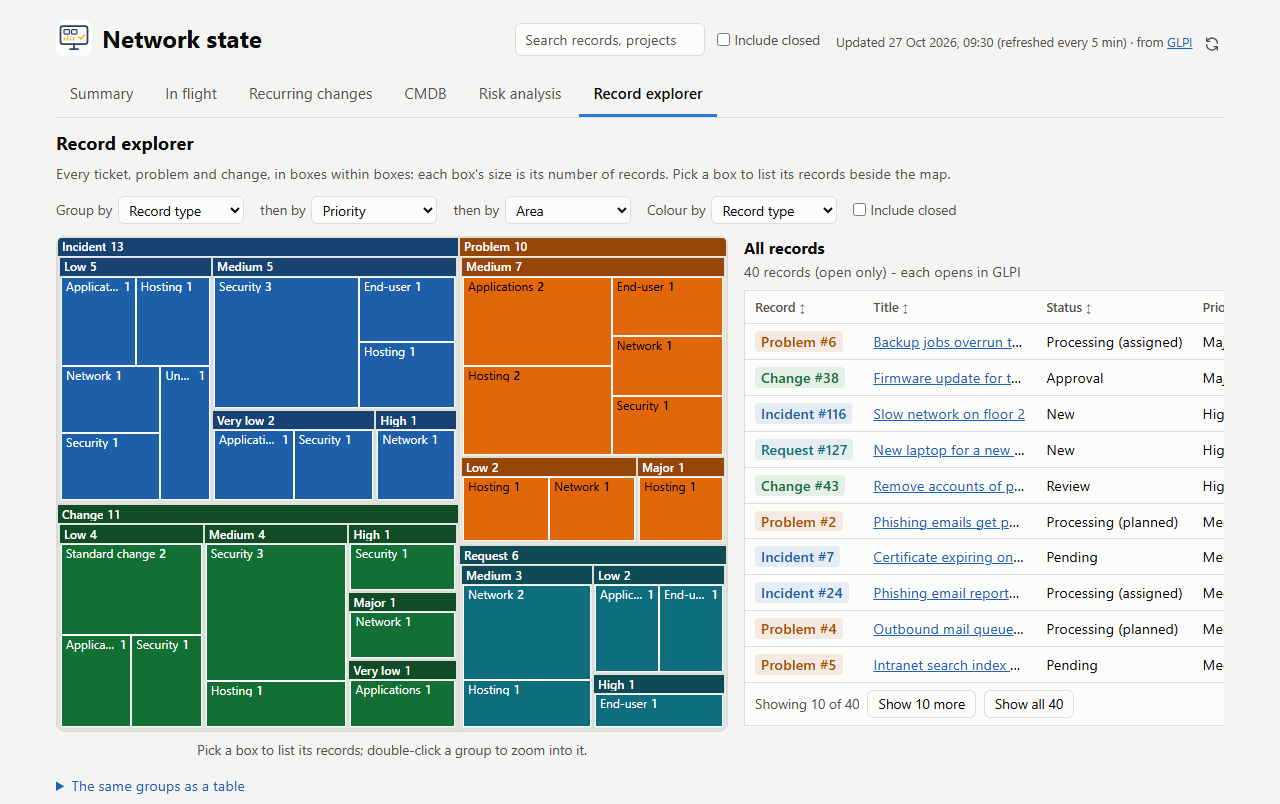
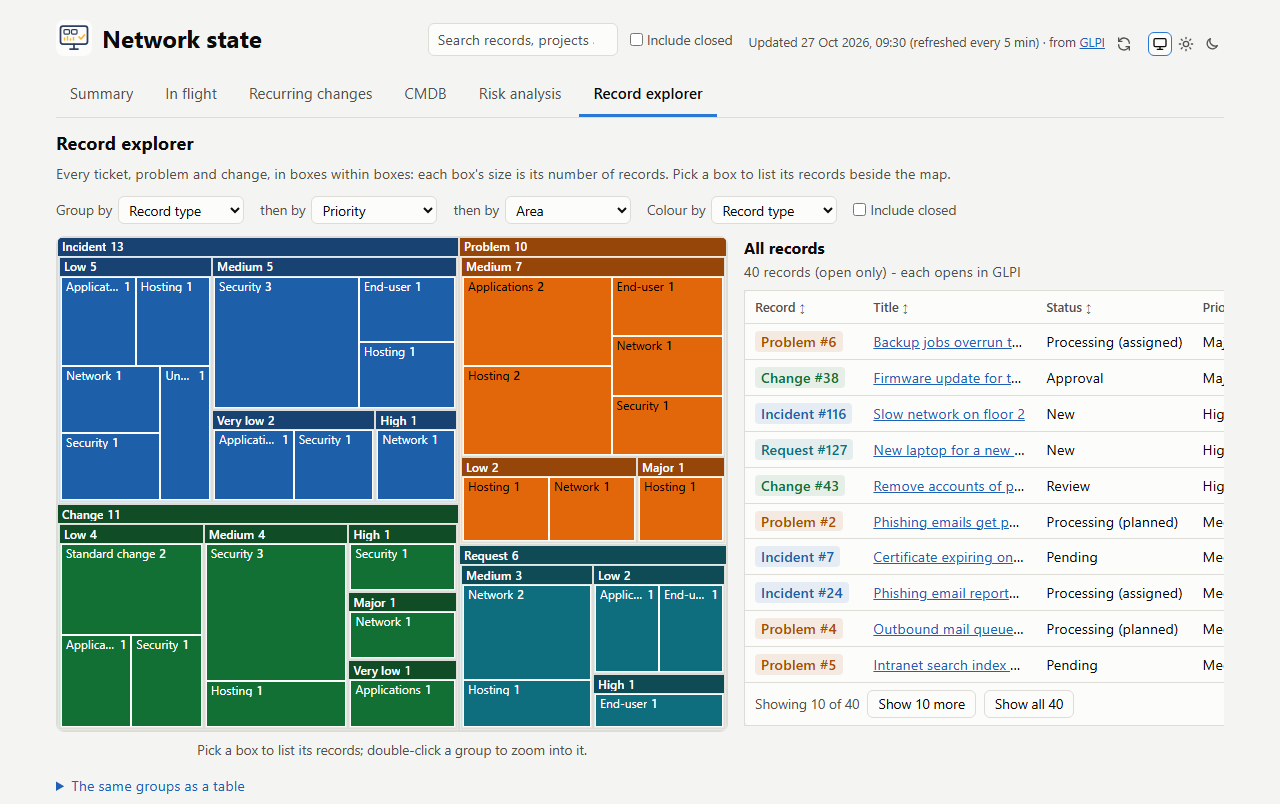
feat(ui): theme toggle - System, Light or Dark (#21)
Three icon buttons in the header pick the theme; the browser remembers the
choice, falling back to System when storage is blocked or the value is
unknown. theme.js applies the saved theme from <head> before the first
paint, so there's no flash, and the Record explorer redraws on a switch so
its box text keeps AA contrast. Adds a dark Summary screenshot and retakes
the six tab shots, whose header now shows the toggle.

Changed region(s): [[0.3438, 0.0311, 0.9375, 0.0622]]

diff --git a/app/static/index.html b/app/static/index.html
@@ -5,6 +5,7 @@
   <meta name="viewport" content="width=device-width, initial-scale=1">
   <title>{{TITLE}}</title>
   <link rel="icon" href="logo.svg" type="image/svg+xml">
+  <script src="theme.js"></script>
   <link rel="stylesheet" href="style.css">
   <script src="app.js" defer></script>
 </head>
@@ -23,7 +24,28 @@
           <path d="M20 11a8 8 0 0 0-14.3-4.9L4 8"/><path d="M4 3v5h5"/>
           <path d="M4 13a8 8 0 0 0 14.3 4.9L20 16"/><path d="M20 21v-5h-5"/>
         </svg>
-      </button></p>
+      </button>
+      <span class="theme" role="group" aria-label="Theme">
+        <button class="icon-btn" type="button" data-theme-choice="system" aria-pressed="true"
+                aria-label="System theme" title="System theme">
+          <svg class="icon" viewBox="0 0 24 24" aria-hidden="true" focusable="false">
+            <rect x="3" y="4" width="18" height="12" rx="2"/><path d="M8 20h8"/><path d="M12 16v4"/>
+          </svg>
+        </button>
+        <button class="icon-btn" type="button" data-theme-choice="light" aria-pressed="false"
+                aria-label="Light theme" title="Light theme">
+          <svg class="icon" viewBox="0 0 24 24" aria-hidden="true" focusable="false">
+            <circle cx="12" cy="12" r="4"/>
+            <path d="M12 2v2M12 20v2M2 12h2M20 12h2M4.9 4.9l1.4 1.4M17.7 17.7l1.4 1.4M4.9 19.1l1.4-1.4M17.7 6.3l1.4-1.4"/>
+          </svg>
+        </button>
+        <button class="icon-btn" type="button" data-theme-choice="dark" aria-pressed="false"
+                aria-label="Dark theme" title="Dark theme">
+          <svg class="icon" viewBox="0 0 24 24" aria-hidden="true" focusable="false">
+            <path d="M20 14.5A8 8 0 0 1 9.5 4a8 8 0 1 0 10.5 10.5z"/>
+          </svg>
+        </button>
+      </span></p>
   </header>
   <div id="error" class="banner" role="alert" hidden></div>
 

diff --git a/app/static/app.js b/app/static/app.js
@@ -819,6 +819,35 @@ function renderExplorer() {
   matchMedia('(prefers-color-scheme: dark)').addEventListener('change', () => { explorerDrawn = null; renderExplorer(); });
 }
 
+// --- theme: System (the default), Light or Dark; theme.js applies the saved one before the page is first drawn ---
+
+const themeButtons = [...document.querySelectorAll('[data-theme-choice]')];
+
+/**
+ * Applies a theme and marks its button as the one picked.
+ * @param {string} theme 'system', 'light' or 'dark'
+ */
+function setTheme(theme) {
+  if (theme === 'system') delete document.documentElement.dataset.theme;
+  else document.documentElement.dataset.theme = theme;
+  for (const b of themeButtons) b.setAttribute('aria-pressed', String(b.dataset.themeChoice === theme));
+}
+
+setTheme(document.documentElement.dataset.theme || 'system');
+for (const b of themeButtons) {
+  b.addEventListener('click', () => {
+    const theme = b.dataset.themeChoice;
+    setTheme(theme);
+    try {
+      if (theme === 'system') localStorage.removeItem('theme');
+      else localStorage.setItem('theme', theme);
+    } catch { /* storage blocked: the choice just isn't kept */ }
+    // The explorer's box text is picked for the colours it was drawn on.
+    explorerDrawn = null;
+    renderExplorer();
+  });
+}
+
 // --- page -------------------------------------------------------------------------------------------------------
 
 /** Draws every section from `snap`, then reopens the list in the URL hash, if any. */

diff --git a/app/static/style.css b/app/static/style.css
@@ -148,11 +148,15 @@ h3 { font-size: 0.95rem; margin: 20px 0 6px; color: var(--text-secondary); }
 .icon-btn:hover:not(:disabled) { color: var(--text-primary); border-color: var(--border); }
 .icon-btn:disabled { cursor: progress; }
 .icon-btn:focus-visible { outline: 2px solid var(--focus); outline-offset: 1px; }
-.refresh-icon { width: 16px; height: 16px; fill: none; stroke: currentColor; stroke-width: 2; stroke-linecap: round;
+.refresh-icon, .icon { width: 16px; height: 16px; fill: none; stroke: currentColor; stroke-width: 2; stroke-linecap: round;
                 stroke-linejoin: round; }
 .icon-btn:disabled .refresh-icon { animation: spin 1s linear infinite; }
 @keyframes spin { to { transform: rotate(360deg); } }
 @media (prefers-reduced-motion: reduce) { .icon-btn:disabled .refresh-icon { animation: none; } }
+/* The theme picker: three icon buttons, the chosen one outlined (3:1 against the page in both themes). */
+.theme { display: inline-flex; gap: 2px; vertical-align: middle; margin-left: 8px; }
+.theme .icon-btn { margin-left: 0; }
+.theme .icon-btn[aria-pressed="true"] { color: var(--text-primary); background: var(--surface-1); border-color: var(--focus); }
 .banner { max-width: 1168px; margin: 12px auto; padding: 10px 14px; border-radius: 6px;
           background: var(--banner-bg); border-left: 4px solid var(--critical); }
 

diff --git a/app/static/theme.js b/app/static/theme.js
@@ -1,0 +1,8 @@
+// Applies the saved theme before the page is first drawn, so it never flashes the other one. It's loaded in <head>
+// without defer, before style.css; the CSP allows no inline script, hence a file of its own. app.js runs the picker.
+'use strict';
+
+try {
+  const saved = localStorage.getItem('theme');
+  if (saved === 'light' || saved === 'dark') document.documentElement.dataset.theme = saved;
+} catch { /* storage blocked: follow the system */ }

diff --git a/ui-tests/test_ui_dashboard.py b/ui-tests/test_ui_dashboard.py
@@ -1082,3 +1082,125 @@ def test_refresh_icon_holds_still_for_reduced_motion(page: Page, dashboard):
     page.locator("#refresh").click()
     expect(page.locator("#refresh")).to_be_disabled()
     assert page.locator("#refresh svg").evaluate("e => getComputedStyle(e).animationName") == "none"
+
+
+# --- theme ------------------------------------------------------------------------------------------------------
+
+LIGHT_BG, DARK_BG = "rgb(244, 244, 242)", "rgb(17, 17, 16)"     # --surface-0 in each theme
+
+
+def theme_button(page: Page, name):
+    return page.get_by_role("group", name="Theme").get_by_role("button", name=f"{name} theme")
+
+
+def page_bg(page: Page):
+    return _style(page.locator("body"), "backgroundColor")
+
+
+def expect_theme(page: Page, picked):
+    for name in ("System", "Light", "Dark"):
+        expect(theme_button(page, name)).to_have_attribute("aria-pressed", str(name == picked).lower())
+
+
+def test_theme_picker_is_three_named_buttons_with_system_picked(page: Page, dashboard):
+    open_page(page)
+    expect(page.get_by_role("group", name="Theme").get_by_role("button")).to_have_count(3)
+    expect_theme(page, "System")
+    for name in ("System", "Light", "Dark"):
+        btn = theme_button(page, name)
+        expect(btn).to_have_attribute("title", f"{name} theme")
+        expect(btn).to_have_text(re.compile(r"^\s*$"))                 # no visible words, just the icon
+        expect(btn.locator("svg")).to_have_attribute("aria-hidden", "true")
+
+
+@pytest.mark.parametrize("system, choice, bg", [("dark", "Light", LIGHT_BG), ("light", "Dark", DARK_BG)])
+def test_choosing_a_theme_overrides_the_system_and_survives_a_reload(page: Page, dashboard, system, choice, bg):
+    page.emulate_media(color_scheme=system)
+    open_page(page)
+    assert page_bg(page) != bg
+    theme_button(page, choice).click()
+    expect_theme(page, choice)
+    assert page_bg(page) == bg
+    open_page(page)
+    expect_theme(page, choice)
+    assert page_bg(page) == bg
+
+
+def test_system_follows_the_colour_scheme(page: Page, dashboard):
+    page.emulate_media(color_scheme="light")
+    open_page(page)
+    theme_button(page, "Dark").click()
+    theme_button(page, "System").click()
+    expect_theme(page, "System")
+    assert page_bg(page) == LIGHT_BG
+    page.emulate_media(color_scheme="dark")
+    assert page_bg(page) == DARK_BG
+    open_page(page)                                                    # System is kept too
+    expect_theme(page, "System")
+    assert page_bg(page) == DARK_BG
+
+
+def test_theme_picker_works_from_the_keyboard(page: Page, dashboard):
+    page.emulate_media(color_scheme="light")
+    open_page(page)
+    dark = theme_button(page, "Dark")
+    dark.focus()
+    page.keyboard.press("Enter")
+    expect_theme(page, "Dark")
+    assert page_bg(page) == DARK_BG
+    theme_button(page, "Light").focus()
+    page.keyboard.press("Space")
+    expect_theme(page, "Light")
+    assert page_bg(page) == LIGHT_BG
+    page.keyboard.press("Tab")                                         # System, Light, Dark
+    expect(dark).to_be_focused()
+    assert _style(dark, "outlineStyle") == "solid"
+
+
+@pytest.mark.parametrize("scheme", ["light", "dark"])
+def test_picked_theme_button_stands_out_at_3_to_1(page: Page, dashboard, scheme):
+    page.emulate_media(color_scheme=scheme)
+    open_page(page)
+    picked = theme_button(page, "System")
+    assert _contrast(_style(picked, "borderTopColor"), page_bg(page)) >= 3
+    for name in ("System", "Light"):
+        icon = theme_button(page, name).locator("svg")
+        assert _contrast(_style(icon, "stroke"), page_bg(page)) >= 4.5
+
+
+def test_saved_theme_is_applied_before_app_js_runs(page: Page, dashboard):
+    """No flash of the other theme: theme.js sets it from <head>, so the page never waits on app.js for it."""
+    page.emulate_media(color_scheme="light")
+    open_page(page)
+    theme_button(page, "Dark").click()
+    page.route("**/app.js", lambda route: route.abort())
+    page.goto("/")
+    expect(page.locator("#updated")).to_have_text("Loading…")          # app.js never ran
+    assert page.locator("html").get_attribute("data-theme") == "dark"
+    assert page_bg(page) == DARK_BG
+
+
+@pytest.mark.parametrize("saved", ["purple", "", "system"])
+def test_an_unknown_saved_theme_falls_back_to_system(page: Page, dashboard, console_errors, saved):
+    page.emulate_media(color_scheme="dark")
+    page.add_init_script(f"localStorage.setItem('theme', {saved!r})")
+    open_page(page)
+    expect_theme(page, "System")
+    assert page.locator("html").get_attribute("data-theme") is None
+    assert page_bg(page) == DARK_BG
+    assert console_errors == []
+
+
+def test_blocked_storage_falls_back_to_system_and_the_picker_still_works(page: Page, dashboard, console_errors):
+    page.add_init_script("""Object.defineProperty(window, 'localStorage', {
+      get() { throw new DOMException('blocked', 'SecurityError'); } })""")
+    page.emulate_media(color_scheme="light")
+    open_page(page)
+    expect_theme(page, "System")
+    theme_button(page, "Dark").click()
+    expect_theme(page, "Dark")
+    assert page_bg(page) == DARK_BG
+    open_page(page)                                                    # not kept
+    expect_theme(page, "System")
+    assert page_bg(page) == LIGHT_BG
+    assert console_errors == []

diff --git a/ui-tests/test_ui_explorer.py b/ui-tests/test_ui_explorer.py
@@ -408,3 +408,19 @@ def test_a_list_or_search_link_opens_when_the_explorer_was_the_last_tab(page: Pa
     expect(page.locator(opened)).to_be_visible()
     expect(page).to_have_url(re.compile(re.escape(link) + "$"))
     expect(page.get_by_role("tab", name="Record explorer")).to_have_attribute("aria-selected", "true")
+
+
+@pytest.mark.parametrize("system, choice", [("light", "Dark"), ("dark", "Light")])
+def test_box_labels_meet_wcag_aa_after_picking_a_theme(page: Page, dashboard, system, choice):
+    """The box text is picked for the colours it was drawn on, so picking a theme draws the boxes again."""
+    page.emulate_media(color_scheme=system)
+    open_explorer(page)
+    page.locator("#explore-closed").check()
+    choose(page, "kind", "area", colour="priority")
+    page.get_by_role("button", name=f"{choice} theme").click()
+    pairs = page.locator("#treemap .tm-leaf, #treemap .tm-group > .tm-label").evaluate_all(
+        "es => es.map(e => [getComputedStyle(e).color, getComputedStyle(e).backgroundColor])")
+    assert len(pairs) >= 8
+    for fg, bg in pairs:
+        hi, lo = sorted((_lum(fg), _lum(bg)), reverse=True)
+        assert (hi + 0.05) / (lo + 0.05) >= 4.5, (fg, bg)

diff --git a/tests/test_main.py b/tests/test_main.py
@@ -161,7 +161,7 @@ def test_healthz_says_nothing_about_errors(client, fake, monkeypatch):
 
 # --- page and headers -----------------------------------------------------------------------------------------
 
-@pytest.mark.parametrize("path", ["/", "/app.js", "/style.css", "/logo.svg"])
+@pytest.mark.parametrize("path", ["/", "/app.js", "/theme.js", "/style.css", "/logo.svg"])
 def test_static_files_are_served(client, path):
     assert client.get(path).status_code == 200
 

diff --git a/CLAUDE.md b/CLAUDE.md
@@ -71,13 +71,14 @@ That belongs in the issue and the PR.
   - **Don't retake** anything else. That covers screens the change didn't touch, a change to the demo data on
     its own, and a retake "to refresh" one. A retake of an unchanged screen can differ by a few pixels, which
     would add a near-identical copy to history.
-  - Images come only from the demo data (`scripts/demo.py shot`), never a real GLPI. Light theme only, for now:
-    dark ones wait for a dark mode toggle. If a change needs the demo data to show it, extend
+  - Images come only from the demo data (`scripts/demo.py shot`), never a real GLPI. Light theme, apart from the
+    one dark image (`summary-dark.png`). If a change needs the demo data to show it, extend
     `tests/demo_glpi.py`, keeping it generic.
 
   | Image | Command (`.venv\Scripts\python.exe scripts/demo.py shot docs/screenshots/<image> ...`) |
   |---|---|
   | `summary.png` | `--tab Summary` |
+  | `summary-dark.png` | `--tab Summary --theme dark` |
   | `in-flight.png` | `--tab "In flight"` |
   | `recurring.png` | `--tab "Recurring changes"` |
   | `cmdb.png` | `--tab CMDB` |

diff --git a/README.md b/README.md
@@ -90,6 +90,12 @@ change counts on area cards and in the CMDB table. The kind is always written ou
 the only cue, and every colour meets WCAG AA contrast in both light and dark themes. A tile with nothing in
 it is dimmed: no fill, a dashed grey border and a grey number.
 
+**Light and dark themes.** The page follows your system's colour scheme by default. The three buttons at the top
+right, beside Refresh now, pick System, Light or Dark, and the browser remembers the choice (if it can't store
+it, the page stays on System).
+
+![The Summary tab in the dark theme](docs/screenshots/summary-dark.png)
+
 **Every number is a link** (`#list=<key>`) to the list behind it, each entry opening in GLPI. The number is
 computed as the length of that list, so the two can't disagree. (The Record explorer's boxes are grouped in the
 page, each from the same records it lists, so they can't disagree either.) Lists can be bookmarked. Record lists show
